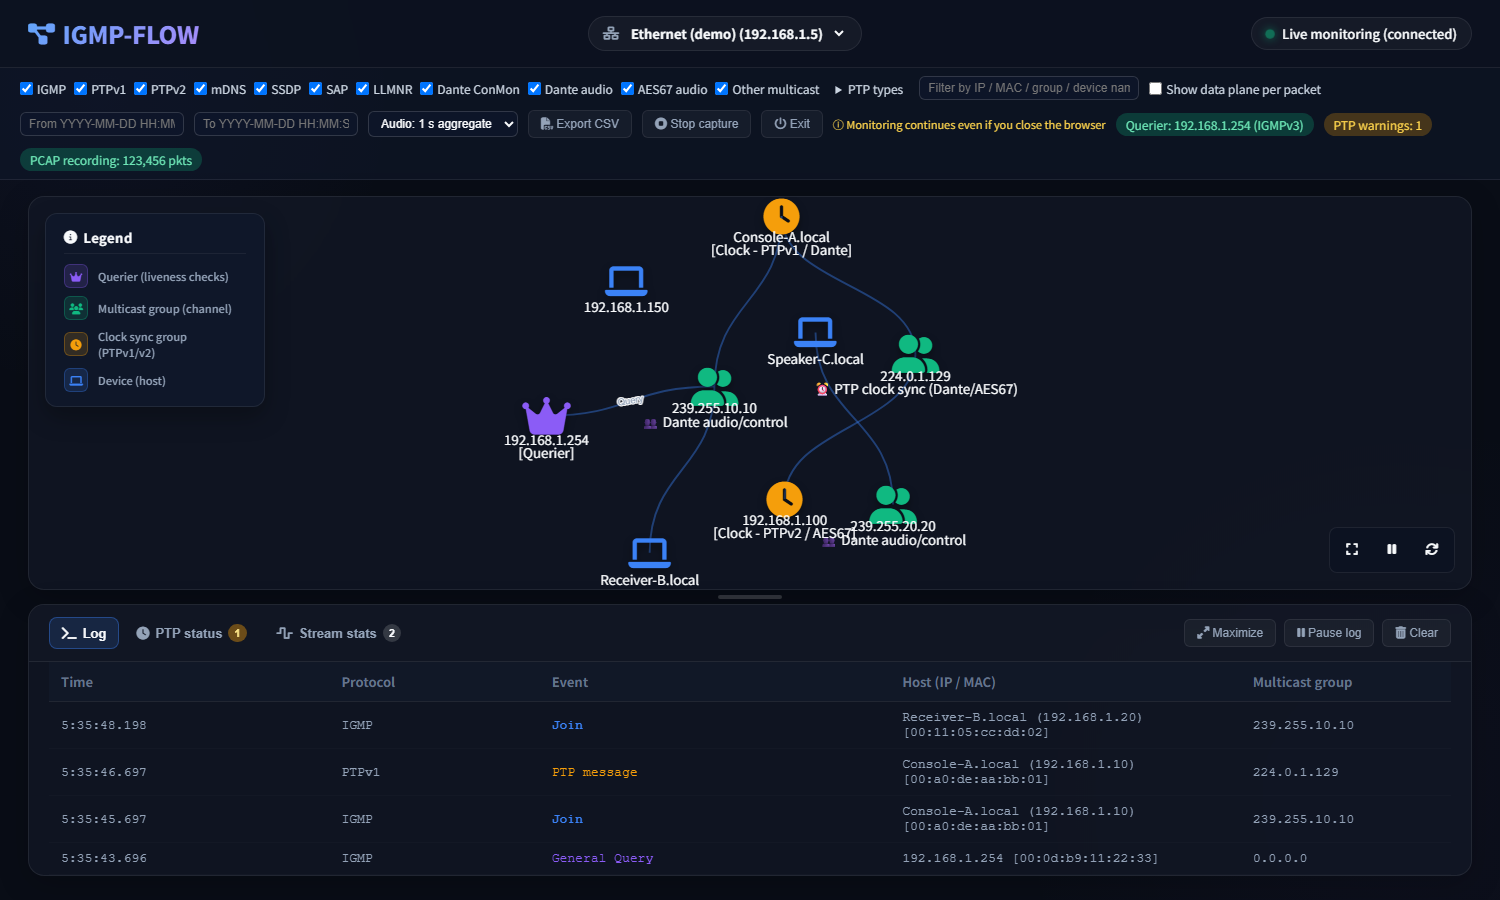
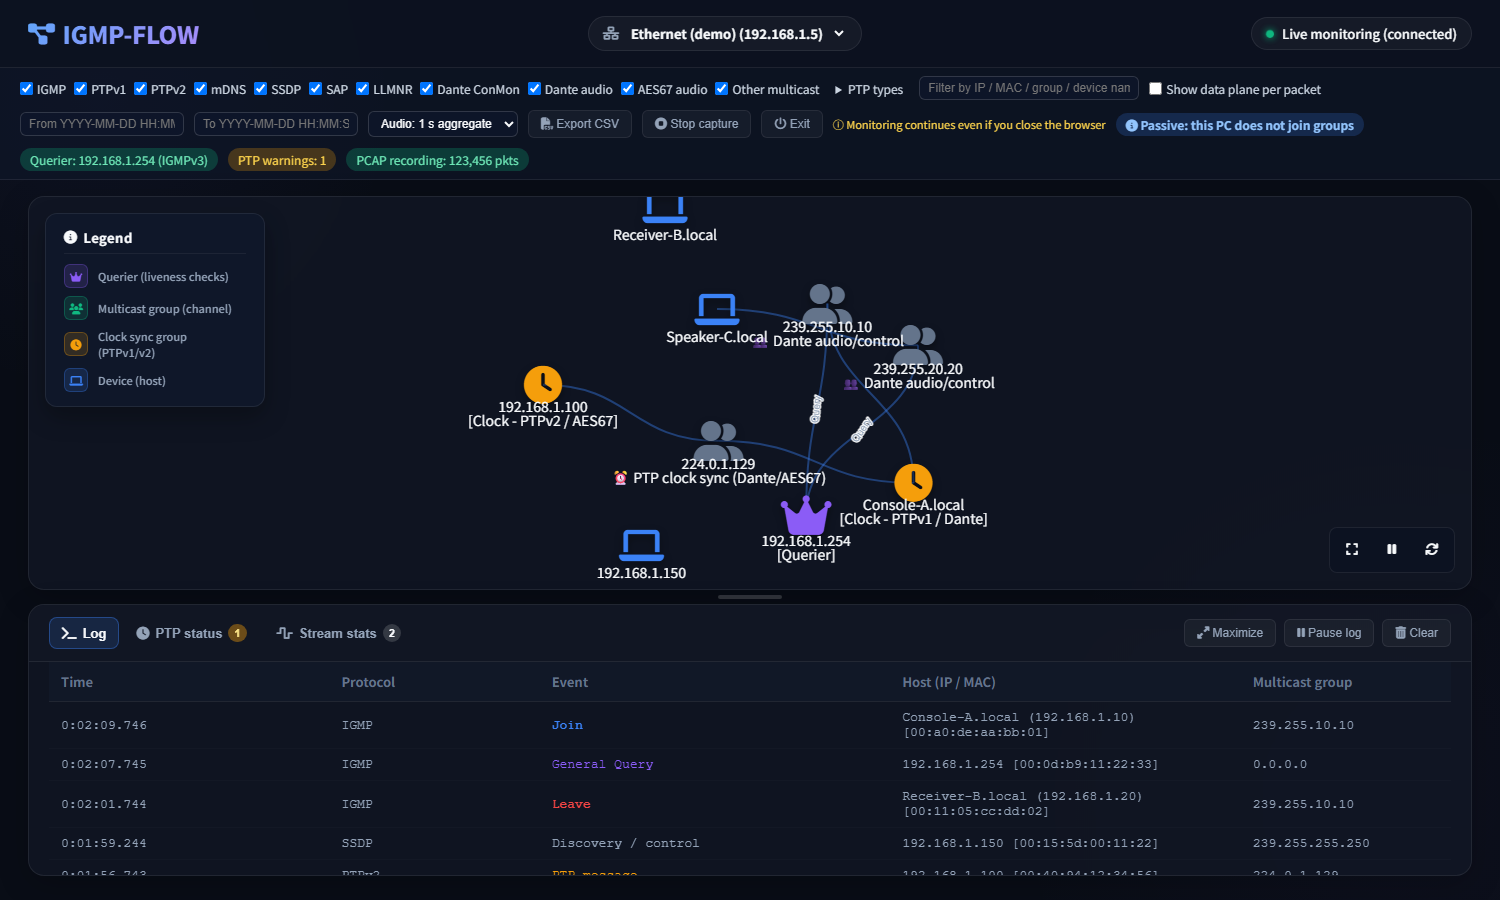
docs: describe the visibility check, refresh screenshots, and bump version to 0.2.0
- READMEs: add the visibility check to the feature list
- Manuals: add an 'Am I seeing everything?' typical task
- Screenshots regenerated from the demo (Passive chip, grey/green groups)

diff --git a/backend/constants.py b/backend/constants.py
@@ -28,7 +28,7 @@ REPORT_VISIBILITY_GRACE_SECONDS: Final[int] = 30
 DEFAULT_LOG_DIR: Final[str] = data_dir("logs")
 
 # アプリのバージョン(リリース成果物の名前と --version 表示に使う。セマンティックバージョニング)
-APP_VERSION: Final[str] = "0.1.0"
+APP_VERSION: Final[str] = "0.2.0"
 
 # Npcap公式ダウンロードURL
 NPCAP_DOWNLOAD_URL: Final[str] = "https://nmap.org/npcap/"

diff --git a/docs/manual_JP.md b/docs/manual_JP.md
@@ -92,6 +92,8 @@ Npcap のインストール方法によっては（例：「Restrict Npcap drive
 - **誰がどのグループに参加している？** 図を見るか、ログを *IGMP* で絞り、グループのアドレスを絞り込み欄に入力します。
 - **IGMP クエリアはいる？** *Querier* チップを確認します。「No querier!」はスイッチの IGMP スヌーピングが働かない恐れ、「Multiple queriers」は
   全クエリアと、本来選ばれるべきもの（最小の IP）を表示します。Query のバージョン（v1/v2/v3）、ロバストネス、間隔は、ログの詳細と CSV で見られます。
+- **全部見えている？** 黄色の *No Join/Leave seen* チップが出ていないこと、気になるグループが緑で表示されていることを確認します。
+  そうでなければ、PC が IGMP スヌーピング有効スイッチの通常ポートにつながっている可能性が高いので、ミラー（SPAN）ポートにつなぎ替えます（1 章参照）。
 - **クロックは正常？** *PTP status* を開きます。Dante は PTPv1、AES67/ST 2110 は PTPv2 を使い、両方が共存できます。ドメインごとにグランドマスターが 1 台だけ
   Announce していること、実測間隔が宣言値と合っていることを確認してください。
 - **余計な通信を探す：** *SSDP*、*LLMNR*、*Other multicast* だけにチェックすると、音響ネットワークに流れているオフィス用や不明なマルチキャストが見えます。

diff --git a/README_JP.md b/README_JP.md
@@ -21,6 +21,8 @@
 - **IGMP 解析**：IGMPv1/v2/v3 に対応。IGMPv3 Report は Group Record ごとに展開します（include/exclude、ソース）。
   Query のバージョン（v1/v2/v3）、最大応答時間、ロバストネス（QRV）、QQIC も表示します。
 - **クエリア監視**：クエリアの不在と、複数クエリアの同時存在を検出します（選出では最小 IP が勝ちます）。
+- **見えているかの確認**：IGMP-FLOW は自分からグループに Join しません。Query は届くのに他の機器の Join / Leave が見えない場合は
+  警告し（ミラーポートではない可能性）、このポートにストリームのデータが届いていないグループは灰色で表示します。
 - **PTP（v1 / v2）監視**：クロックごとのメッセージ間隔（実測と宣言値）、グランドマスター ID、プライオリティ、クロッククラスを表示します。
   Announce の途絶、複数のグランドマスター、間隔の不一致を警告します。
 - **プロトコル名の表示**：mDNS、SSDP、SAP、LLMNR、Dante ConMon、Dante audio、AES67 audio、その他のマルチキャスト。

diff --git a/docs/manual_EN.md b/docs/manual_EN.md
@@ -97,6 +97,8 @@ Try the UI without any hardware: `python scripts/demo_simulator.py` replays a sa
 - **Is there an IGMP querier?** Check the *Querier* chip. "No querier!" means IGMP snooping on the switches may fail; "Multiple
   queriers" shows all of them and which one should win (the lowest IP). Query version (v1/v2/v3), robustness and interval are
   shown in the log detail and CSV.
+- **Am I seeing everything?** Check that the yellow *No Join/Leave seen* chip is not shown and that the groups you care about are
+  green. If not, the PC is probably on a normal port of a snooping switch: move it to a mirror (SPAN) port (see section 1).
 - **Is the clock healthy?** Open *PTP status*. Dante uses PTPv1; AES67/ST 2110 use PTPv2. Both can coexist. Check that one grandmaster
   announces per domain and that measured intervals match the declared ones.
 - **Find unwanted traffic:** tick only *SSDP*, *LLMNR* and *Other multicast* to see office-network or unknown multicast on the audio network.

diff --git a/README.md b/README.md
@@ -21,6 +21,8 @@ Generated from the built-in demo (`python scripts/demo_simulator.py`); all names
 - **IGMP analysis**: IGMPv1/v2/v3. IGMPv3 Reports are expanded per Group Record (include/exclude, sources).
   Query version (v1/v2/v3), max response time, robustness (QRV) and QQIC are shown.
 - **Querier monitor**: detects a missing querier and multiple queriers (the lowest IP should win the election).
+- **Visibility check**: IGMP-FLOW never joins a group. It warns when Queries arrive but no other device's Join/Leave is
+  seen (the port is probably not a mirror port), and greys out groups whose stream data does not reach this port.
 - **PTP (v1 / v2) monitor**: per-clock message intervals (measured vs. declared), grandmaster ID, priorities and
   clock class. Warns on lost Announce, multiple grandmasters and interval mismatch.
 - **Protocol names**: mDNS, SSDP, SAP, LLMNR, Dante ConMon, Dante audio, AES67 audio, other multicast.
